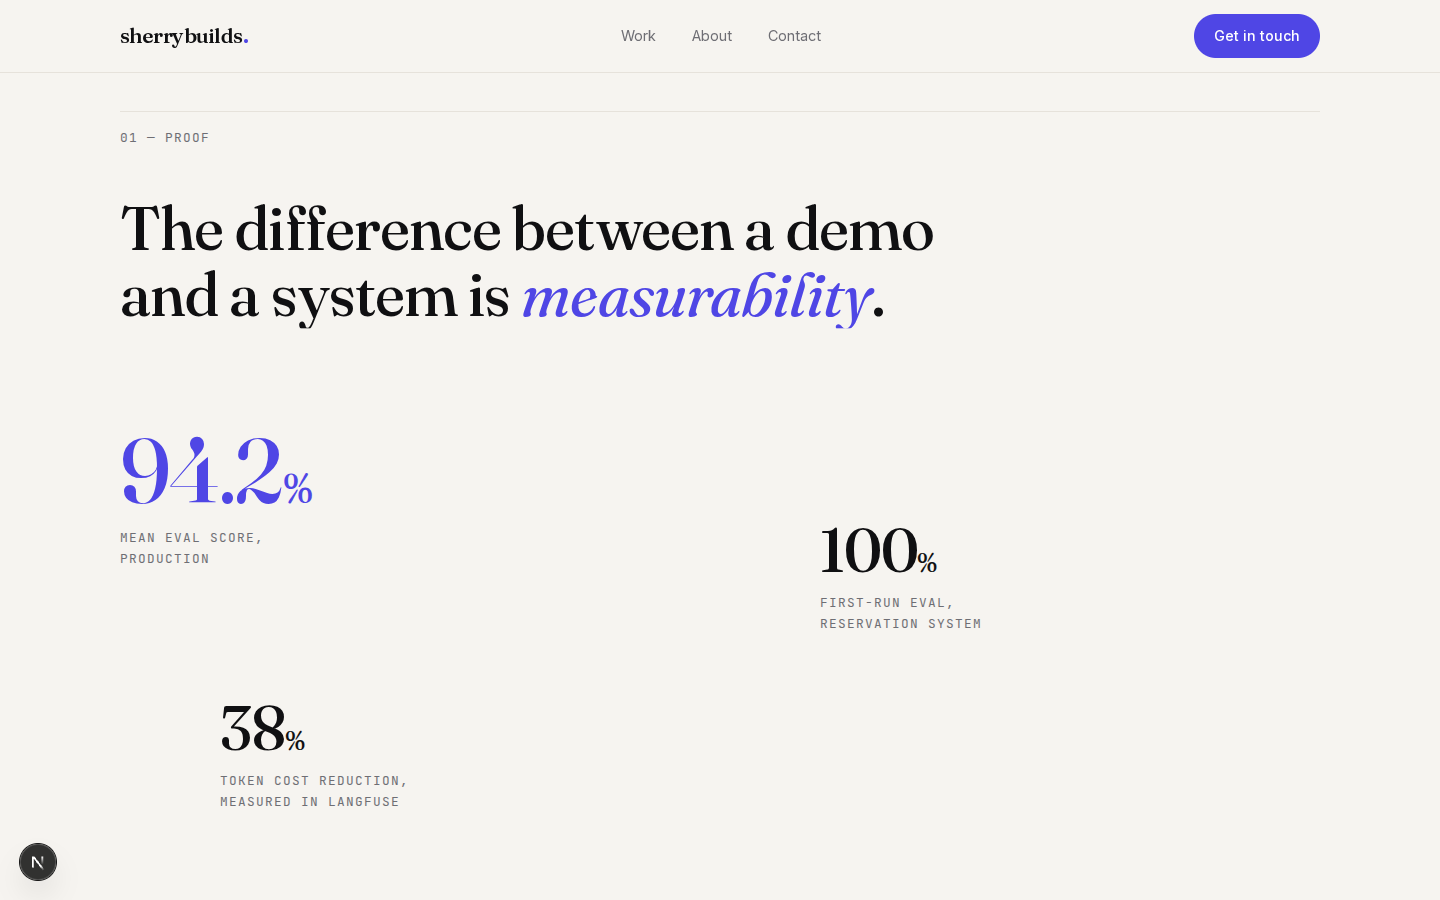
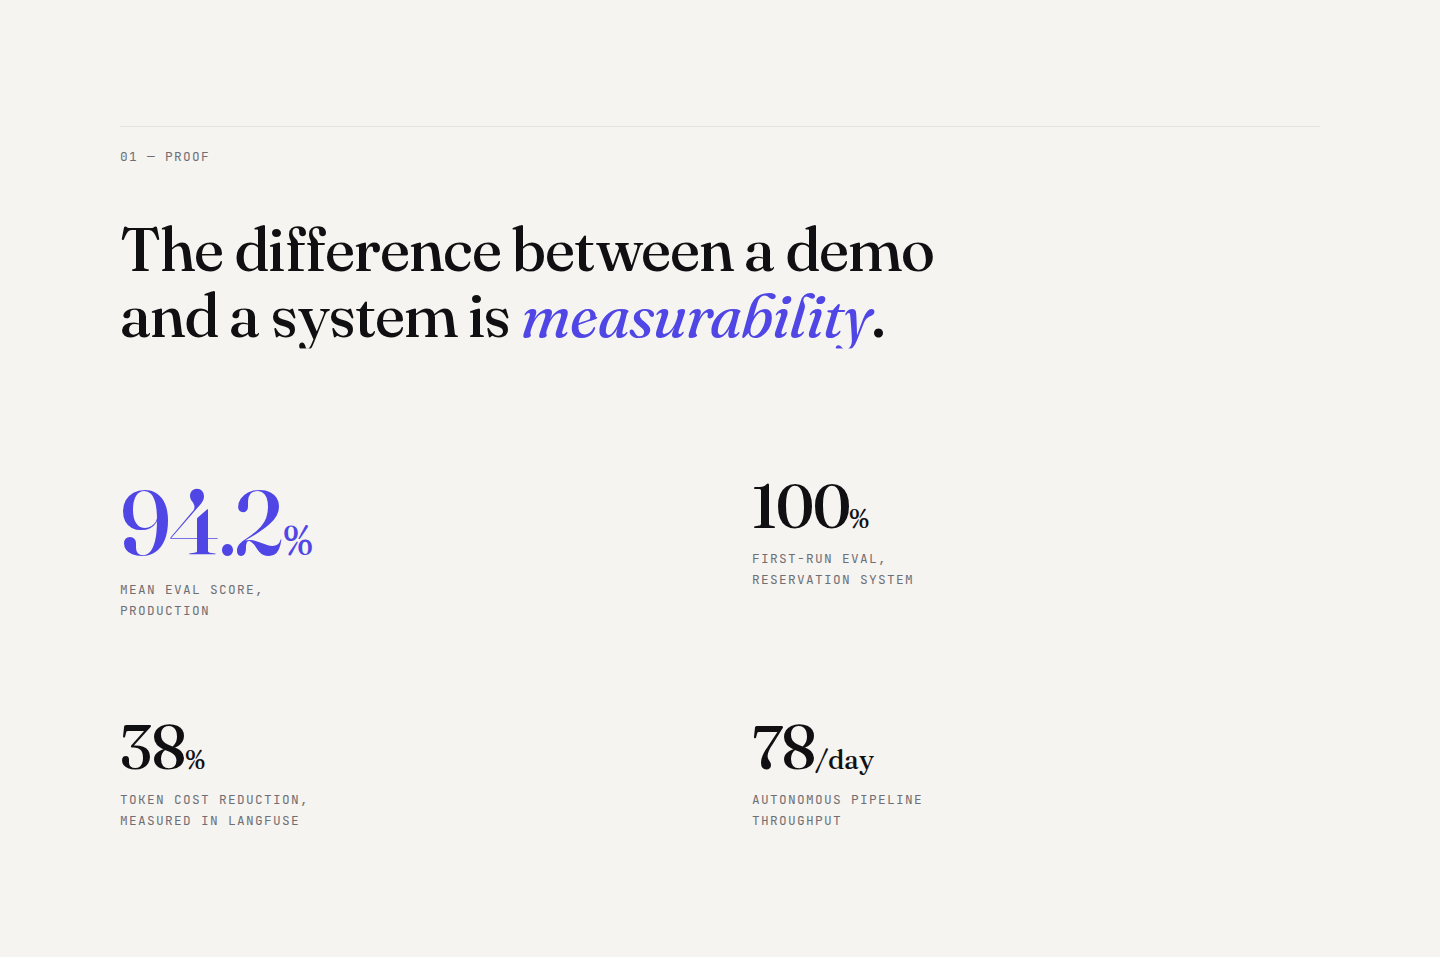
fix(portfolio): Proof grid alignment + last-figure reveal bug
- Figures now sit on a clean 2x2 grid (single column at 375px): tops
  aligned per row, equal gutters and row spacing — removed the
  staggered baseline offsets that read as misalignment
- Fix missing 4th figure: Reveal triggers used "top 85%", which
  elements near the page bottom can never reach — wrapped in
  ScrollTrigger clamp() so end-of-page reveals always fire
- screenshot.js: capture the full section element (scroll through it
  first so reveals fire) and hide fixed chrome during capture so the
  nav doesn't bake into taller-than-viewport shots

Verified: all four figures render at 1440 + 375, 0 console errors,
0 overflow, tsc + eslint clean.

diff --git a/src/components/portfolio/Proof.tsx b/src/components/portfolio/Proof.tsx
@@ -5,8 +5,6 @@ type Metric = {
   suffix?: string;
   caption: string;
   accent?: boolean;
-  /** Desktop grid placement + baseline offset (asymmetric, not cards) */
-  className: string;
 };
 
 const METRICS: Metric[] = [
@@ -15,25 +13,21 @@ const METRICS: Metric[] = [
     suffix: "%",
     caption: "Mean eval score, production",
     accent: true,
-    className: "lg:col-span-5 lg:col-start-1",
   },
   {
     value: "100",
     suffix: "%",
     caption: "First-run eval, reservation system",
-    className: "lg:col-span-4 lg:col-start-8 lg:mt-[var(--space-24)]",
   },
   {
     value: "38",
     suffix: "%",
     caption: "Token cost reduction, measured in Langfuse",
-    className: "lg:col-span-4 lg:col-start-2 lg:mt-[var(--space-16)]",
   },
   {
     value: "78",
     suffix: "/day",
     caption: "Autonomous pipeline throughput",
-    className: "lg:col-span-4 lg:col-start-8 lg:mt-[var(--space-32)]",
   },
 ];
 
@@ -48,7 +42,7 @@ export default function Proof() {
       <div className="mx-auto w-full max-w-[80rem] px-6 lg:px-10">
         {/* Section rule + index label */}
         <div
-          className="flex items-baseline justify-between border-t"
+          className="border-t"
           style={{ borderColor: "var(--border)", paddingTop: "var(--space-4)" }}
         >
           <span
@@ -81,10 +75,10 @@ export default function Proof() {
           </h2>
         </Reveal>
 
-        {/* Editorial figures — asymmetric grid, one column on mobile */}
-        <div className="mt-[var(--space-16)] grid grid-cols-1 gap-y-[var(--space-16)] lg:mt-[var(--space-24)] lg:grid-cols-12 lg:gap-y-0">
+        {/* Editorial figures — clean 2×2, tops aligned, size + whitespace do the work */}
+        <div className="mt-[var(--space-24)] grid grid-cols-1 items-start gap-y-[var(--space-16)] md:grid-cols-2 md:gap-x-[var(--space-16)] md:gap-y-[var(--space-24)] lg:mt-[var(--space-32)]">
           {METRICS.map((m, i) => (
-            <Reveal key={m.caption} delay={i * 0.06} className={m.className}>
+            <Reveal key={m.caption} delay={i * 0.06}>
               <p
                 style={{
                   fontFamily: "var(--font-display)",

diff --git a/scripts/screenshot.js b/scripts/screenshot.js
@@ -48,13 +48,30 @@ fs.mkdirSync(outDir, { recursive: true });
 
     await page.goto(`http://localhost:${port}`, { waitUntil: "networkidle", timeout: 60000 });
     await page.waitForTimeout(2000);
-    if (selector) {
-      await page.locator(selector).scrollIntoViewIfNeeded();
-      await page.waitForTimeout(1600); // let the Reveal settle
-    }
 
     const file = path.join(outDir, `${name}-${device}.png`);
-    await page.screenshot({ path: file });
+    if (selector) {
+      // Walk to the end of the section first so every scroll Reveal fires,
+      // then capture the WHOLE element (sections taller than one viewport
+      // would otherwise crop or show unrevealed content).
+      const loc = page.locator(selector);
+      await loc.scrollIntoViewIfNeeded();
+      await page.waitForTimeout(900);
+      await page.evaluate((sel) => {
+        const el = document.querySelector(sel);
+        const bottom = el.getBoundingClientRect().bottom + window.scrollY;
+        window.scrollTo(0, Math.max(0, bottom - window.innerHeight + 40));
+      }, selector);
+      await page.waitForTimeout(1400);
+      // Fixed chrome (nav, dev badge) would get baked into the middle of a
+      // taller-than-viewport element capture — hide it for the shot.
+      await page.addStyleTag({
+        content: "header{visibility:hidden!important} nextjs-portal{display:none!important}",
+      });
+      await loc.screenshot({ path: file });
+    } else {
+      await page.screenshot({ path: file });
+    }
 
     const overflow = await page.evaluate(
       () => document.documentElement.scrollWidth - document.documentElement.clientWidth

diff --git a/src/components/portfolio/Reveal.tsx b/src/components/portfolio/Reveal.tsx
@@ -46,7 +46,10 @@ export default function Reveal({
             ease: EASE,
             delay,
             stagger: staggerChildren ? STAGGER : 0,
-            scrollTrigger: { trigger: el, start: "top 85%" },
+            // clamp() keeps the trigger inside scrollable bounds — without it,
+            // elements near the page bottom can never reach "top 85%" and
+            // stay invisible forever.
+            scrollTrigger: { trigger: el, start: "clamp(top 85%)" },
           }
         );
       });
